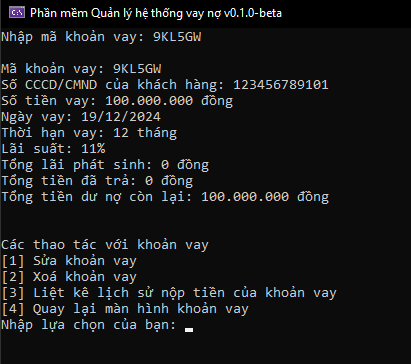
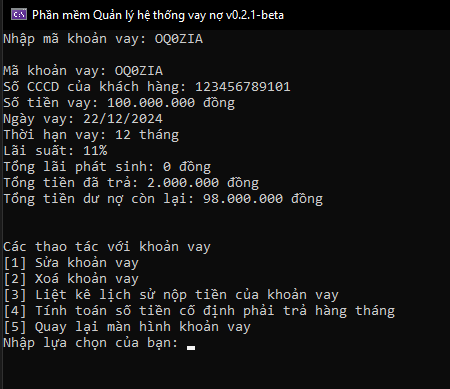
Chỉnh sửa readme và thêm ảnh tìm khoản vay theo mã mới

Changed region(s): [[0.0, 0.1511, 0.8175, 0.5742], [0.0, 0.6044, 0.8759, 0.9368], [0.0, 0.0, 0.7007, 0.1209]]

diff --git a/README.md b/README.md
@@ -90,7 +90,7 @@ Các lựa chọn trong giao diện này bao gồm:
    ![Ảnh thêm khoản vay](/img/Thêm%20khoản%20vay.png)
 2. **Tìm khoản vay theo số CCCD**.  
    ![Ảnh tìm khoản vay theo số CCCD](/img/Tìm%20kiểm%20khoản%20vay%20theo%20CCCD.png)
-3. **Tìm khoản vay theo mã khoản vay** và thao tác với khoản vay (sửa, xóa, liệt kê lịch sử nộp tiền).  
+3. **Tìm khoản vay theo mã khoản vay** và thao tác với khoản vay (sửa, xóa, liệt kê lịch sử nộp tiền, tính số tiền cố định mỗi tháng phải trả).  
    ![Ảnh tìm khoản vay theo mã khoản vay](/img/TÌm%20kiếm%20khoản%20vay%20theo%20mã%20khoản%20vay.png)
 4. **Liệt kê khoản vay hết hạn** và tùy chọn xóa tất cả các khoản vay đó.
 5. **Liệt kê khoản vay đã trả hết nợ** và tùy chọn xóa tất cả các khoản vay đó.
